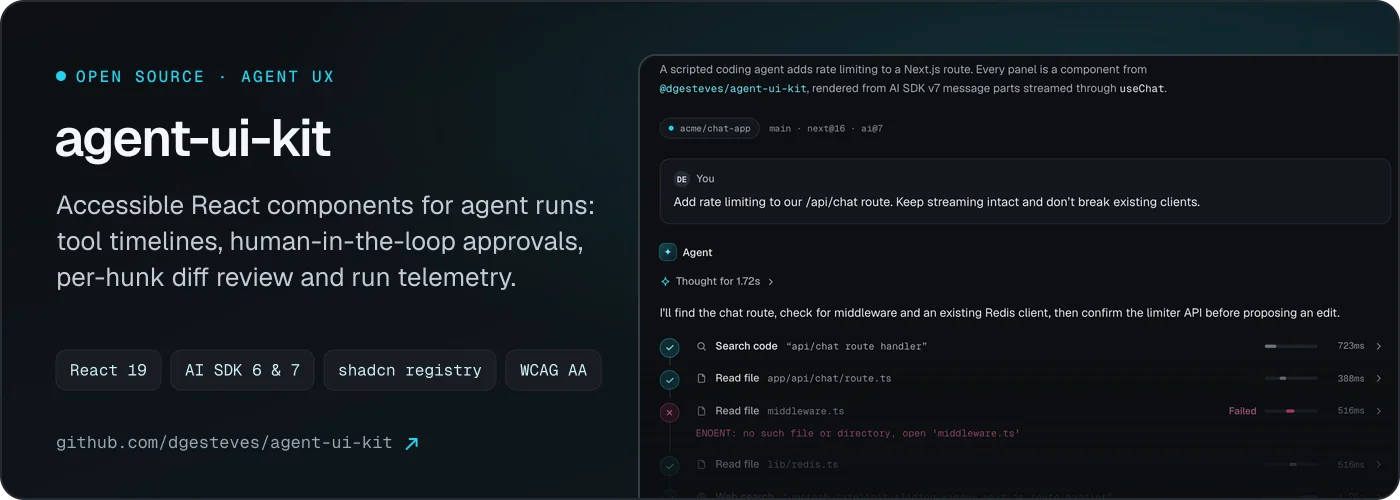
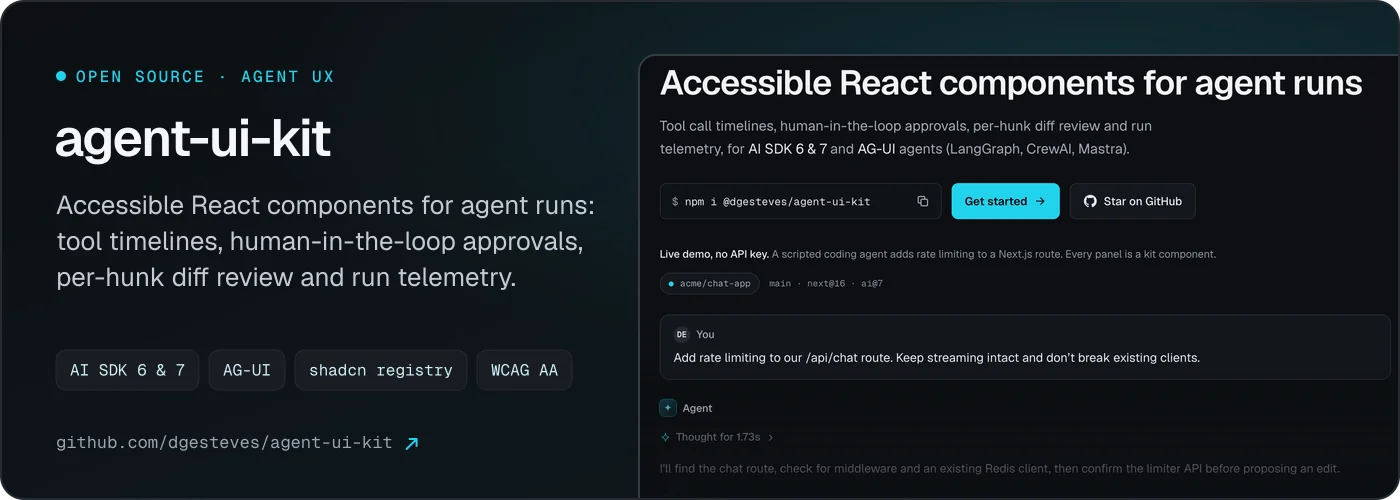
List all three project websites and refresh the project cards
The Live demos line only linked two of the three sites. It now links all
three websites, each with its docs and live demo.

Cards: ask-my-site is now pitched as self-hosted Ask AI for docs sites,
with Docusaurus and Starlight chips; agent-ui-kit gets an AG-UI chip; all
three use the current screenshots from each repo.

diff --git a/README.md b/README.md
@@ -19,13 +19,13 @@ Full-stack engineer, 10+ years in, focused on AI. I build AI products end to end
 
 ### Open source
 
-<a href="https://github.com/dgesteves/agent-ui-kit"><img src="assets/project-agent-ui-kit.webp" width="100%" alt="agent-ui-kit: accessible React components for agent runs: tool timelines, human-in-the-loop approvals, per-hunk diff review and run telemetry. React 19, AI SDK 6 &amp; 7, shadcn registry, WCAG AA."></a>
+<a href="https://github.com/dgesteves/agent-ui-kit"><img src="assets/project-agent-ui-kit.webp" width="100%" alt="agent-ui-kit: accessible React components for agent runs: tool timelines, human-in-the-loop approvals, per-hunk diff review and run telemetry. AI SDK 6 &amp; 7, AG-UI, shadcn registry, WCAG AA."></a>
 
-<a href="https://github.com/dgesteves/ask-my-site"><img src="assets/project-ask-my-site.webp" width="100%" alt="ask-my-site: a drop-in ask box for any website with a build-time index, in-memory hybrid search and streaming answers with citations. No vector database."></a>
+<a href="https://github.com/dgesteves/ask-my-site"><img src="assets/project-ask-my-site.webp" width="100%" alt="ask-my-site: self-hosted Ask AI for docs sites, with a build-time index, in-memory hybrid search and streaming answers with citations. No vector database. AI SDK 7, BM25 + vectors, Docusaurus and Starlight plugins."></a>
 
 <a href="https://github.com/dgesteves/design-system-mcp"><img src="assets/project-design-system-mcp.webp" width="100%" alt="design-system-mcp: gives coding agents ground truth about your React design system, plus a linter they run on their own UI. MCP, Claude Code plugin, shadcn/ui, Tailwind v4."></a>
 
-Live demos: [agent-ui-kit playground](https://agent-ui-kit-demo.vercel.app) · [ask-my-site docs assistant](https://ask-my-site-demo.vercel.app)
+Websites, each with docs and a live demo: [agent-ui-kit](https://agent-ui-kit-demo.vercel.app) (a scripted agent run) · [ask-my-site](https://ask-my-site-demo.vercel.app) (ask the docs a question) · [design-system-mcp](https://design-system-mcp-demo.vercel.app) (a `check_ui` playground)
 
 ### Featured
 
